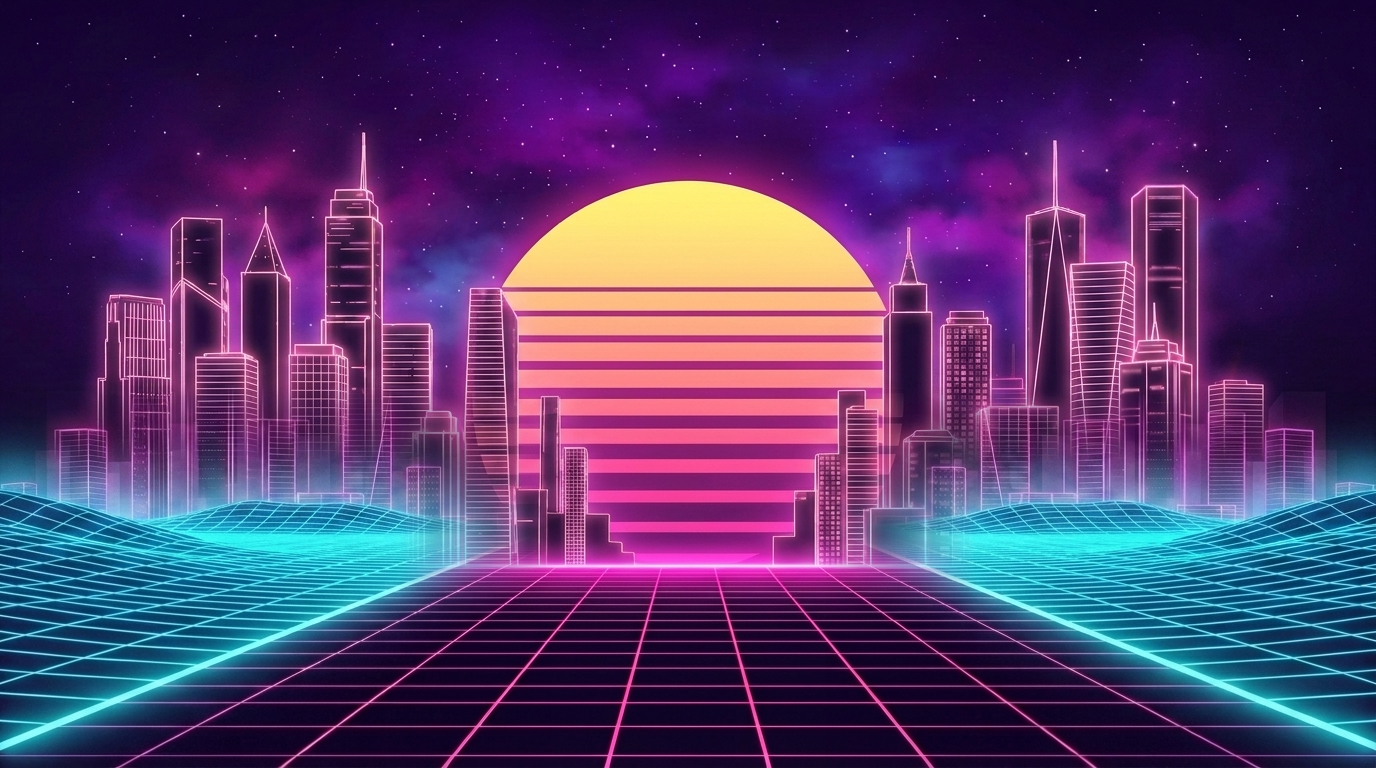
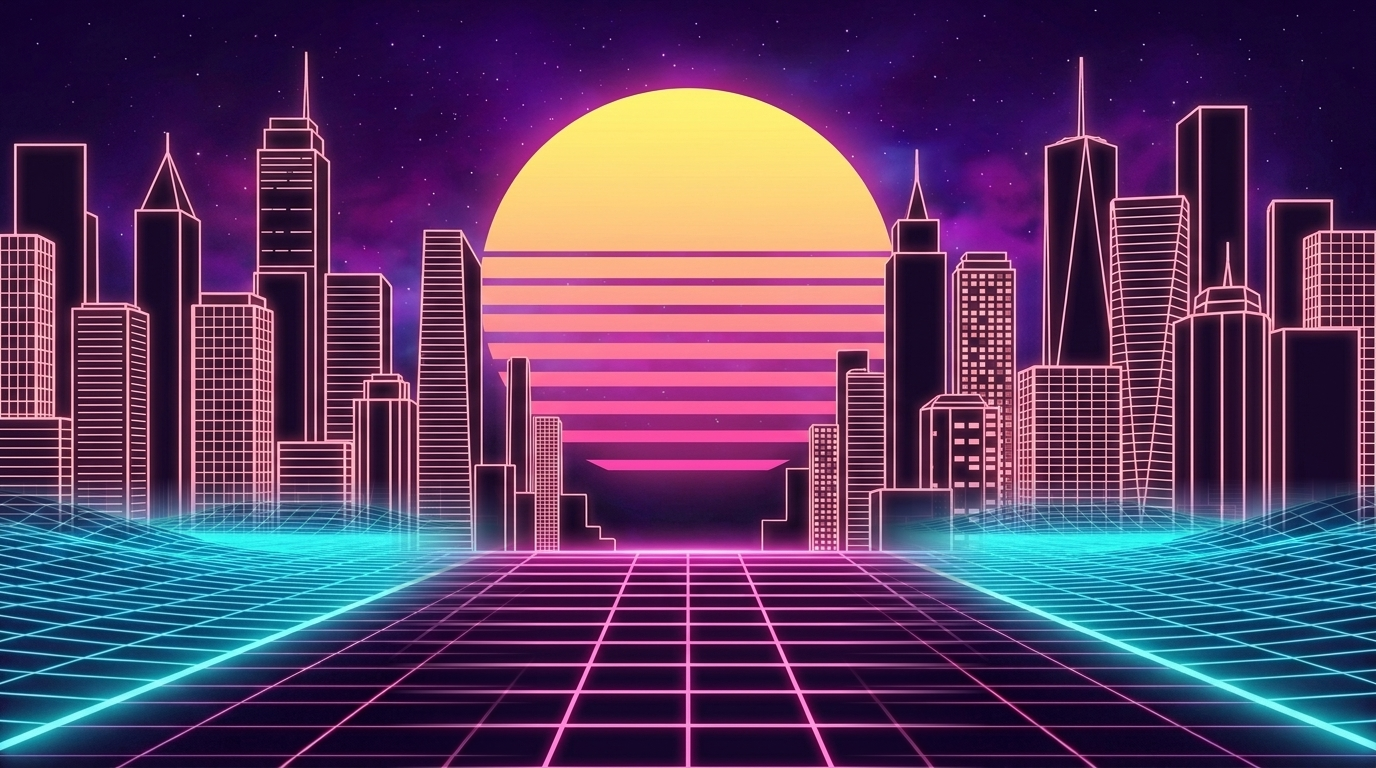
Match horizontal building style to vertical (solid pink-neon skyline)

diff --git a/index.html b/index.html
@@ -5642,7 +5642,7 @@ updateMenuCar();                                             // reflect the save
   // sun geometry in each source image: cx = fraction of image WIDTH; cy & d = fraction of image HEIGHT
   const SUN = {
     portrait:  { nw: 768,  nh: 1376, cx: 0.501, cy: 0.320, d: 0.305 },
-    landscape: { nw: 1376, nh: 768,  cx: 0.495, cy: 0.512, d: 0.552 }
+    landscape: { nw: 1376, nh: 768,  cx: 0.500, cy: 0.388, d: 0.546 }
   };
   let cx = 0, cy = 0, R = 0, box = 0, dpr = 1;            // css px geometry (canvas-local)
   let smooth = null;                                      // shared smoothed spectrum (fast attack / slow decay)